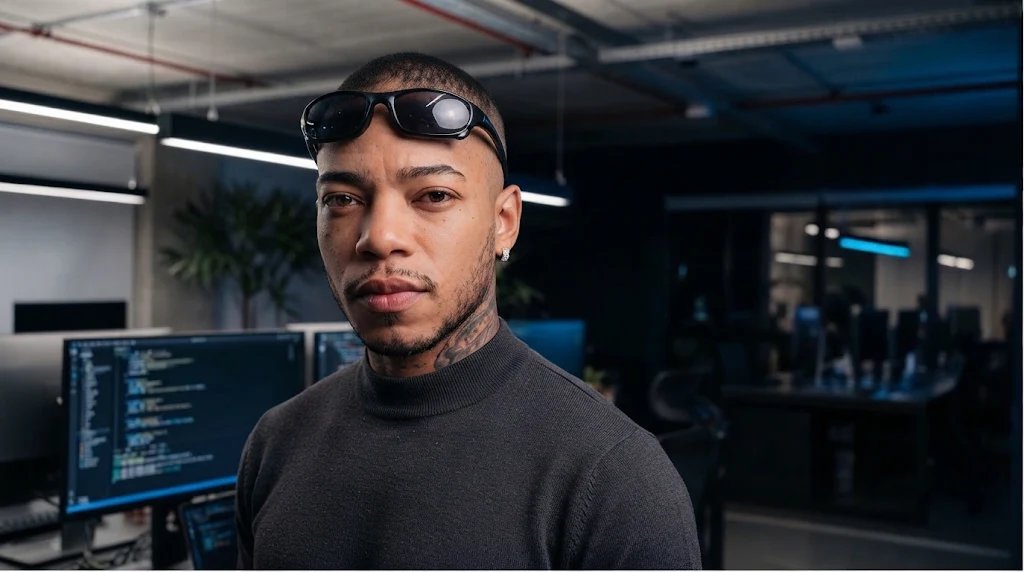
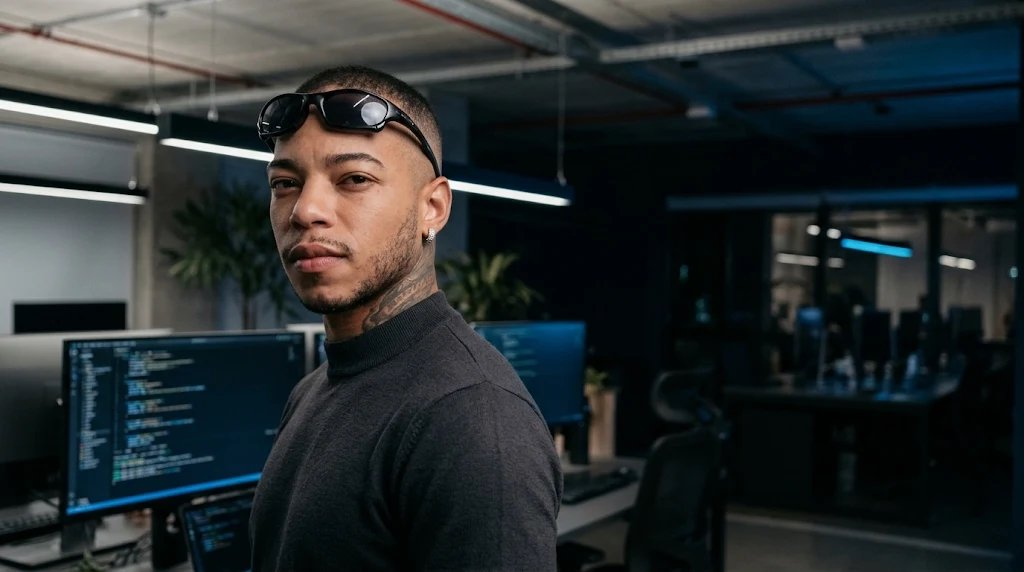
Update hero photo framing, tighten headline, and link no-login AtelieSync demo

diff --git a/index.html b/index.html
@@ -218,7 +218,7 @@
                 <!-- Identidade com Foto de Perfil -->
                 <a href="#cap-01" class="flex items-center gap-3 group">
                     <div class="relative w-10 h-10 rounded-xl bg-gradient-to-br from-[#00f0ff] to-[#7c3aed] p-[1.5px] shadow-lg shadow-[#00f0ff]/20">
-                        <img src="image_ccdd1b.jpg" alt="Ariell Pureza" onerror="this.style.display='none'; this.nextElementSibling.style.display='flex';" class="w-full h-full object-cover object-[40%_15%] rounded-[10.5px]">
+                        <img src="image_ccdd1b.jpg?v=2" alt="Ariell Pureza" onerror="this.style.display='none'; this.nextElementSibling.style.display='flex';" class="w-full h-full object-cover object-[34%_14%] rounded-[10.5px]">
                         <div class="hidden w-full h-full rounded-[10.5px] bg-[#050609] items-center justify-center font-mono font-bold text-xs text-[#00f0ff]">
                             AP
                         </div>
@@ -306,37 +306,40 @@
     <!-- ==================== 2. HERO SCROLLYTELLING (PINNED STAGE 230VH) ==================== -->
     <section id="cap-01" class="relative h-[230vh] w-full">
         <!-- Palco Fixo na Viewport -->
-        <div id="hero-sticky-viewport" class="sticky top-0 h-screen w-full overflow-hidden cyber-grid flex items-center justify-center">
+        <div id="hero-sticky-viewport" class="sticky top-0 h-screen w-full overflow-hidden flex items-center justify-center">
             
             <!-- Foto de Fundo Full-Bleed do Portfólio -->
             <div class="absolute inset-0 z-0 overflow-hidden pointer-events-none">
-                <img id="hero-bg-photo" src="image_ccdd1b.jpg" alt="Ariell Pureza — Portfólio Oficial" class="w-full h-full object-cover object-[40%_16%] lg:object-[34%_18%] transition-transform duration-300 ease-out will-change-transform">
-                <div class="absolute inset-0 bg-gradient-to-t from-[#050609] via-[#050609]/65 to-[#050609]/25 lg:bg-gradient-to-r lg:from-[#050609]/15 lg:via-[#050609]/50 lg:to-[#050609]/95"></div>
-                <div class="absolute inset-0 bg-gradient-to-t from-[#050609] via-transparent to-[#050609]/45"></div>
+                <div class="absolute inset-y-0 left-0 w-full lg:-left-[9%] lg:w-[109%] overflow-hidden">
+                    <img id="hero-bg-photo" src="image_ccdd1b.jpg?v=2" alt="Ariell Pureza — Portfólio Oficial" class="w-full h-full object-cover object-[34%_14%] lg:object-[70%_15%] transition-transform duration-300 ease-out will-change-transform">
+                </div>
+                <div class="hidden lg:block absolute inset-0" style="background: linear-gradient(90deg, rgba(5,6,9,0) 0%, rgba(5,6,9,0) 38%, rgba(5,6,9,0.52) 52%, rgba(5,6,9,0.88) 74%, rgba(5,6,9,0.96) 100%);"></div>
+                <div class="lg:hidden absolute inset-0" style="background: linear-gradient(180deg, rgba(5,6,9,0.08) 0%, rgba(5,6,9,0.12) 38%, rgba(5,6,9,0.78) 65%, rgba(5,6,9,0.96) 100%);"></div>
+                <div class="absolute inset-x-0 bottom-0 h-28 bg-gradient-to-t from-[#050609] to-transparent"></div>
                 <div id="hero-stage-dimmer" class="absolute inset-0 bg-[#050609]/0 transition-colors duration-500"></div>
             </div>
 
             <!-- Canvas de Partículas Interativas & Fluxo de Dados -->
-            <canvas id="scrolly-canvas" class="absolute inset-0 z-[1] w-full h-full pointer-events-none opacity-35"></canvas>
+            <canvas id="scrolly-canvas" class="absolute inset-0 z-[1] w-full h-full pointer-events-none opacity-0 transition-opacity duration-500"></canvas>
 
             <!-- Orbes de Iluminação Dinâmica Guiados pelo Scroll -->
-            <div id="hero-orb-cyan" class="absolute z-[1] w-[320px] h-[320px] sm:w-[540px] sm:h-[540px] rounded-full bg-[#00f0ff]/15 blur-[130px] pointer-events-none transition-transform duration-150 ease-out" style="top: 15%; left: 10%;"></div>
-            <div id="hero-orb-violet" class="absolute z-[1] w-[320px] h-[320px] sm:w-[560px] sm:h-[560px] rounded-full bg-[#7c3aed]/20 blur-[140px] pointer-events-none transition-transform duration-150 ease-out" style="bottom: 10%; right: 10%;"></div>
+            <div id="hero-orb-cyan" class="absolute z-[1] w-[320px] h-[320px] sm:w-[540px] sm:h-[540px] rounded-full bg-[#00f0ff]/15 blur-[130px] pointer-events-none opacity-0 transition-all duration-500 ease-out" style="top: 15%; left: 10%;"></div>
+            <div id="hero-orb-violet" class="absolute z-[1] w-[320px] h-[320px] sm:w-[560px] sm:h-[560px] rounded-full bg-[#7c3aed]/20 blur-[140px] pointer-events-none opacity-0 transition-all duration-500 ease-out" style="bottom: 10%; right: 10%;"></div>
 
             <!-- Container Central dos 3 Estágios Narrativos -->
             <div class="relative z-10 max-w-7xl mx-auto px-4 sm:px-6 lg:px-8 w-full h-[84vh] flex items-center justify-center">
 
                 <!-- ESTÁGIO 1 (0% - 33%): 01. PORTFÓLIO & SOFTWARES AO VIVO -->
                 <div id="hero-stage-0" class="hero-stage is-active w-full !justify-end pb-12 pt-16 lg:!justify-center lg:pb-0">
-                    <div class="w-full lg:w-[56%] xl:w-[52%] lg:ml-auto text-left">
+                    <div class="w-full lg:w-[54%] xl:w-[49%] lg:ml-auto text-left">
                         <div class="inline-flex items-center gap-2.5 px-3.5 py-1.5 rounded-full bg-[#050609]/75 backdrop-blur-md border border-[#00f0ff]/35 font-mono text-[11px] sm:text-xs text-[#00f0ff] mb-4 shadow-lg shadow-[#00f0ff]/10">
                             <span class="w-2 h-2 rounded-full bg-emerald-400 animate-pulse"></span>
                             <span>ARIELL PUREZA • PORTFÓLIO OFICIAL</span>
                             <span class="text-slate-400">BSB • BR</span>
                         </div>
 
-                        <h1 class="font-display text-3xl sm:text-5xl xl:text-6xl font-extrabold tracking-tight text-white leading-[1.08] mb-4 drop-shadow-[0_4px_24px_rgba(5,6,9,0.9)]">
-                            Sistemas Sob Medida &amp; <span class="gradient-text-cyan">Posicionamento de Marca</span>.
+                        <h1 class="font-display text-3xl sm:text-5xl xl:text-[3.35rem] font-extrabold tracking-tight text-white leading-[1.06] mb-4 drop-shadow-[0_4px_24px_rgba(5,6,9,0.9)]">
+                            Sistemas &amp;<br><span class="gradient-text-cyan">Estratégia de Marca</span>.
                         </h1>
 
                         <p class="text-sm sm:text-base lg:text-lg text-slate-200 leading-relaxed mb-5 drop-shadow-[0_2px_12px_rgba(5,6,9,0.9)]">
@@ -361,7 +364,7 @@
                                     <i data-lucide="external-link" class="w-3.5 h-3.5 text-slate-400 group-hover:text-[#00f0ff] shrink-0 transition-colors"></i>
                                 </a>
 
-                                <a href="https://ateliesync.vercel.app" target="_blank" rel="noopener noreferrer" class="glass-panel rounded-2xl px-3.5 py-3 border border-white/15 hover:border-[#00f0ff]/60 bg-[#0b0e15]/85 hover:bg-[#00f0ff]/10 transition-all group flex items-center justify-between gap-2">
+                                <a href="https://ariellpureza61.github.io/ateliesync-portfolio/" target="_blank" rel="noopener noreferrer" class="glass-panel rounded-2xl px-3.5 py-3 border border-white/15 hover:border-[#00f0ff]/60 bg-[#0b0e15]/85 hover:bg-[#00f0ff]/10 transition-all group flex items-center justify-between gap-2">
                                     <div class="min-w-0">
                                         <div class="flex items-center gap-1.5">
                                             <span class="w-1.5 h-1.5 rounded-full bg-emerald-400 animate-pulse shrink-0"></span>
@@ -1152,7 +1155,7 @@
                 title: 'AteliêSync',
                 categories: ['ia', 'gestao'],
                 badge: 'SaaS IA WhatsApp & Agenda',
-                liveUrl: 'https://ateliesync.vercel.app',
+                liveUrl: 'https://ariellpureza61.github.io/ateliesync-portfolio/',
                 icon: 'bot',
                 accent: 'violet',
                 summary: 'Plataforma SaaS multi-tenant de atendimento no WhatsApp com IA, agenda inteligente e gestão de caixa em tempo real.',
@@ -1588,6 +1591,16 @@
             if (heroStageDimmer) {
                 heroStageDimmer.classList.toggle('bg-[#050609]/65', stageIndex > 0);
                 heroStageDimmer.classList.toggle('bg-[#050609]/0', stageIndex === 0);
+            }
+            if (canvas) {
+                canvas.classList.toggle('opacity-35', stageIndex > 0);
+                canvas.classList.toggle('opacity-0', stageIndex === 0);
+            }
+            if (orbCyan && orbViolet) {
+                orbCyan.classList.toggle('opacity-100', stageIndex > 0);
+                orbCyan.classList.toggle('opacity-0', stageIndex === 0);
+                orbViolet.classList.toggle('opacity-100', stageIndex > 0);
+                orbViolet.classList.toggle('opacity-0', stageIndex === 0);
             }
         }
 
